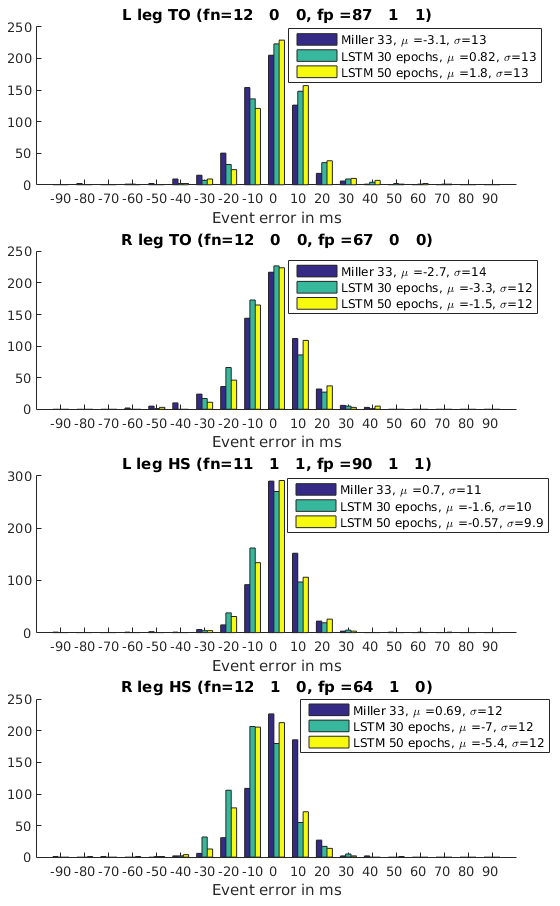
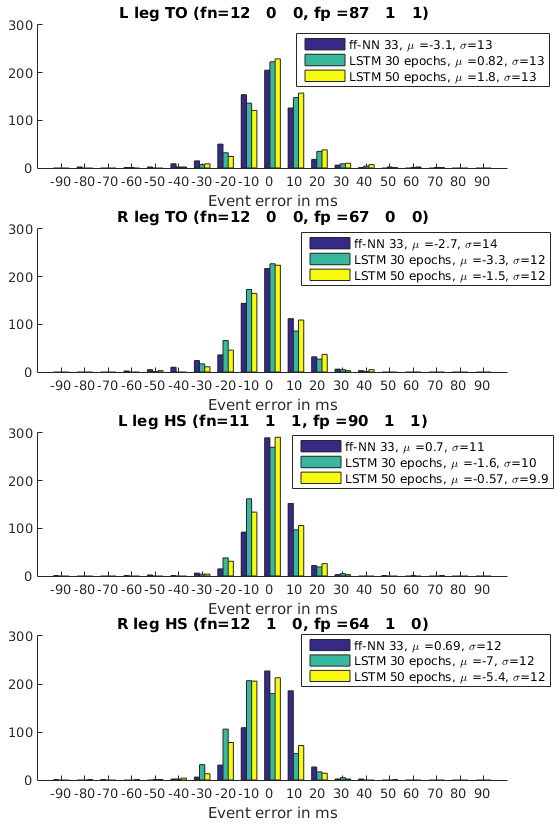
Changed names of methods in figs

Changed region(s): [[0.0, 0.0, 1.0, 0.9928]]

diff --git a/paper/paper.tex b/paper/paper.tex
@@ -394,7 +394,7 @@ As can be seen from Figure \ref{fig:paramSearch} a good learning rate was about 
 \label{sec:Results}
 
 \subsection{Dataset 1}
-Once we settled on parameters for our network, we trained it for 100 epochs and tested it on dataset 1. We compared results from Miller's feed-forward network, O'Connor's heuristic and our LSTM network. We assessed the results as follows: if a detected event was less than 100ms apart from the actual event (ground truth derived from force-plates), we measured the difference in times and quantified it in a histogram. If the detected event was more than 100ms apart from the closest true event, we consider it a false positive. In the same way, if no event was detected within 100ms of an actual event, we consider it to be a false negative. All four possible events (left heel-strike, toe-off, right heel-strike and toe-off) were considered independetly.  Results are summarized on figure \ref{fig:halfAndHalfTrials}. Each plot represents the histogram of time differences between actual and detected events when they are within a 100ms window of each other. At the top of each plot appear the total number of false positives (fp) and false negatives (fn) for each of the methods compared. O'Connor's results were very poor compared to other methods (larger bias and variance), so they were excluded from the figure. The three methods that appear in the figure are: Miller with the default parameters (33 hidden units), LSTM network of 100 units trained over 30 or 50 epochs, to show the convergence. From this figure we can see that performance of all three algorithms in terms of bias ($\mu$) and standard deviation ($\sigma$) is comparable. However, the LSTM network performs better in terms of false negatives and false positives, with almost no bad detections or missed events, while Miller's has a significant amount of false positives especially.\\
+Once we settled on parameters for our network, we trained it for 100 epochs and tested it on dataset 1. We compared results from the feed-forward network (ff-NN from now on) method , FVA and our LSTM network. We assessed the results as follows: if a detected event was less than 100ms apart from the actual event (ground truth derived from force-plates), we measured the difference in times and quantified it in a histogram. If the detected event was more than 100ms apart from the closest true event, we consider it a false positive. In the same way, if no event was detected within 100ms of an actual event, we consider it to be a false negative. All four possible events (left heel-strike, toe-off, right heel-strike and toe-off) were considered independetly.  Results are summarized on figure \ref{fig:halfAndHalfTrials}. Each plot represents the histogram of time differences between actual and detected events when they are within a 100ms window of each other. At the top of each plot appear the total number of false positives (fp) and false negatives (fn) for each of the methods compared. FVA's results were very poor compared to other methods (larger bias and variance), so they were excluded from the figure. The three methods that appear in the figure are: ff-NN with the default parameters (33 hidden units), LSTM network of 100 units trained over 30 or 50 epochs, to show the convergence. From this figure we can see that performance of all three algorithms in terms of bias ($\mu$) and standard deviation ($\sigma$) is comparable. However, the LSTM network performs better in terms of false negatives and false positives, with almost no bad detections or missed events, while ff-NN has a significant amount of false positives especially.\\
 
 
 \begin{figure}
@@ -402,28 +402,28 @@ Once we settled on parameters for our network, we trained it for 100 epochs and 
  \includegraphics[scale=.45]{./figures/Test1_2Train1_1Compare.png}
  % \includesvg[scale=.31]{./figures/Test1_1Train1_2Compare.svg}
  % Test1_1Train1_2Compare.png: 0x0 pixel, 300dpi, 0.00x0.00 cm, bb=
- \caption{Comparison of Miller vs. LSTM network for various training intervals, for dataset 1.}
+ \caption{Comparison of ff-NN vs. LSTM network for various training intervals, for dataset 1.}
  \label{fig:halfAndHalfTrials}
 \end{figure}
 
 \subsection{Dataset 2}
-The second dataset was designed to assess how well the methods generalize to new users. We performed the same treatment as for the previous dataset, and results are shown on \ref{fig:halfAndHalfUsers}. From these results we can see that the LSTM network achieves better accuracy than Miller, with less false positives and false negatives. However, the false positive rate is somewhat high for the LSTM network too. It can also be seen that for the LSTM network trained over 50 epochs that some overfitting is happening, as the number of false positives increases noticeably, and accuracy is also slightly reduced. We didn't implement any way to prevent over-fitting, so this is not too surprising. Perhaps it is good news that 30 epochs of training suffice to achieve the network's optimal performance.
+The second dataset was designed to assess how well the methods generalize to new users. We performed the same treatment as for the previous dataset, and results are shown on \ref{fig:halfAndHalfUsers}. From these results we can see that the LSTM network achieves better accuracy than ff-NN, with less false positives and false negatives. However, the false positive rate is somewhat high for the LSTM network too. It can also be seen that for the LSTM network trained over 50 epochs that some overfitting is happening, as the number of false positives increases noticeably, and accuracy is also slightly reduced. We didn't implement any way to prevent over-fitting, so this is not too surprising. Perhaps it is good news that 30 epochs of training suffice to achieve the network's optimal performance.
 
 \begin{figure}
  \centering
  \includegraphics[scale=.45]{./figures/Test2_1Train2_2Compare.png}
   %\includesvg[scale=.4]{./figures/Test2_2Train2_1Compare.svg}
  % Test1_1Train1_2Compare.png: 0x0 pixel, 300dpi, 0.00x0.00 cm, bb=
- \caption{Comparison of Miller vs. LSTM network for various training intervals, for dataset 2.}
+ \caption{Comparison of ff-NN vs. LSTM network for various training intervals, for dataset 2.}
  \label{fig:halfAndHalfUsers}
 \end{figure}
 
 \section{Conclusion and Future Work}
 \label{sec:Conclusion and Future Work}
 \subsection{Conclusions}
-The results from our initial implementation of the LSTM network are very encouraging. Compared to the baseline methods, we achieved less confusion (false positive and false negative rate) and similar or better accuracy, measured through bias and quadratic error. O'Connor's heuristic performed very poorly, with biases and standard deviations tens of milliseconds larger than what Miller and the LSTM network achieved. This is not too surprising since O'Connor is a fixed heuristic method with no way to adapt to the data (requires no training).
+The results from our initial implementation of the LSTM network are very encouraging. Compared to the baseline methods, we achieved less confusion (false positive and false negative rate) and similar or better accuracy, measured through bias and quadratic error. FVA performed very poorly, with biases and standard deviations tens of milliseconds larger than what ff-NN and the LSTM network achieved. This is not too surprising since FVA is a fixed heuristic method with no way to adapt to the data (requires no training).
 
-Miller performed much better than O'Connor but we still found that LSTM performed slightly better. In \cite{Miller2009} the reported results for the method are similar (although slightly worse) than what we found here for the same algorithm. However, \cite{Miller2009} only uses 72 gait cycles (total) for his training, which is a lot smaller than our dataset. Miller also fails to discuss his cross-validation method and false detection rates, so it is not clear whether the high false positive rate was an issue for him or whether it is an artifact of our implementation and the larger dataset we tried to train on. Miller did achieve his performance including subjects with pathological gait, but given the small dataset, it is hard to say how many of his samples were really pathological and how much that affected performance.
+ff-NN performed much better than FVA but we still found that LSTM performed slightly better. In \cite{Miller2009} the reported results for the method are similar (although slightly worse) than what we found here for the same algorithm. However, \cite{Miller2009} only uses 72 gait cycles (total) for his training, which is a lot smaller than our dataset. The ff-NN also fails to discuss his cross-validation method and false detection rates, so it is not clear whether the high false positive rate was an issue for him or whether it is an artifact of our implementation and the larger dataset we tried to train on. \cite{Miller2009} did achieve his performance including subjects with pathological gait, but given the small dataset, it is hard to say how many of his samples were really pathological and how much that affected performance.
 
 It is worth noticing that our implementation can do event detection in real time, both in the sense that it is computationally tractable and that our prediction is causal, relying only in past marker data. This makes our method unique, as we couldn't find anything in the literature that offered similar guarantees. Overall, the results we obtained are satisfying and we expect to polish them a little further before submitting them for publication in a gait research journal.
 
